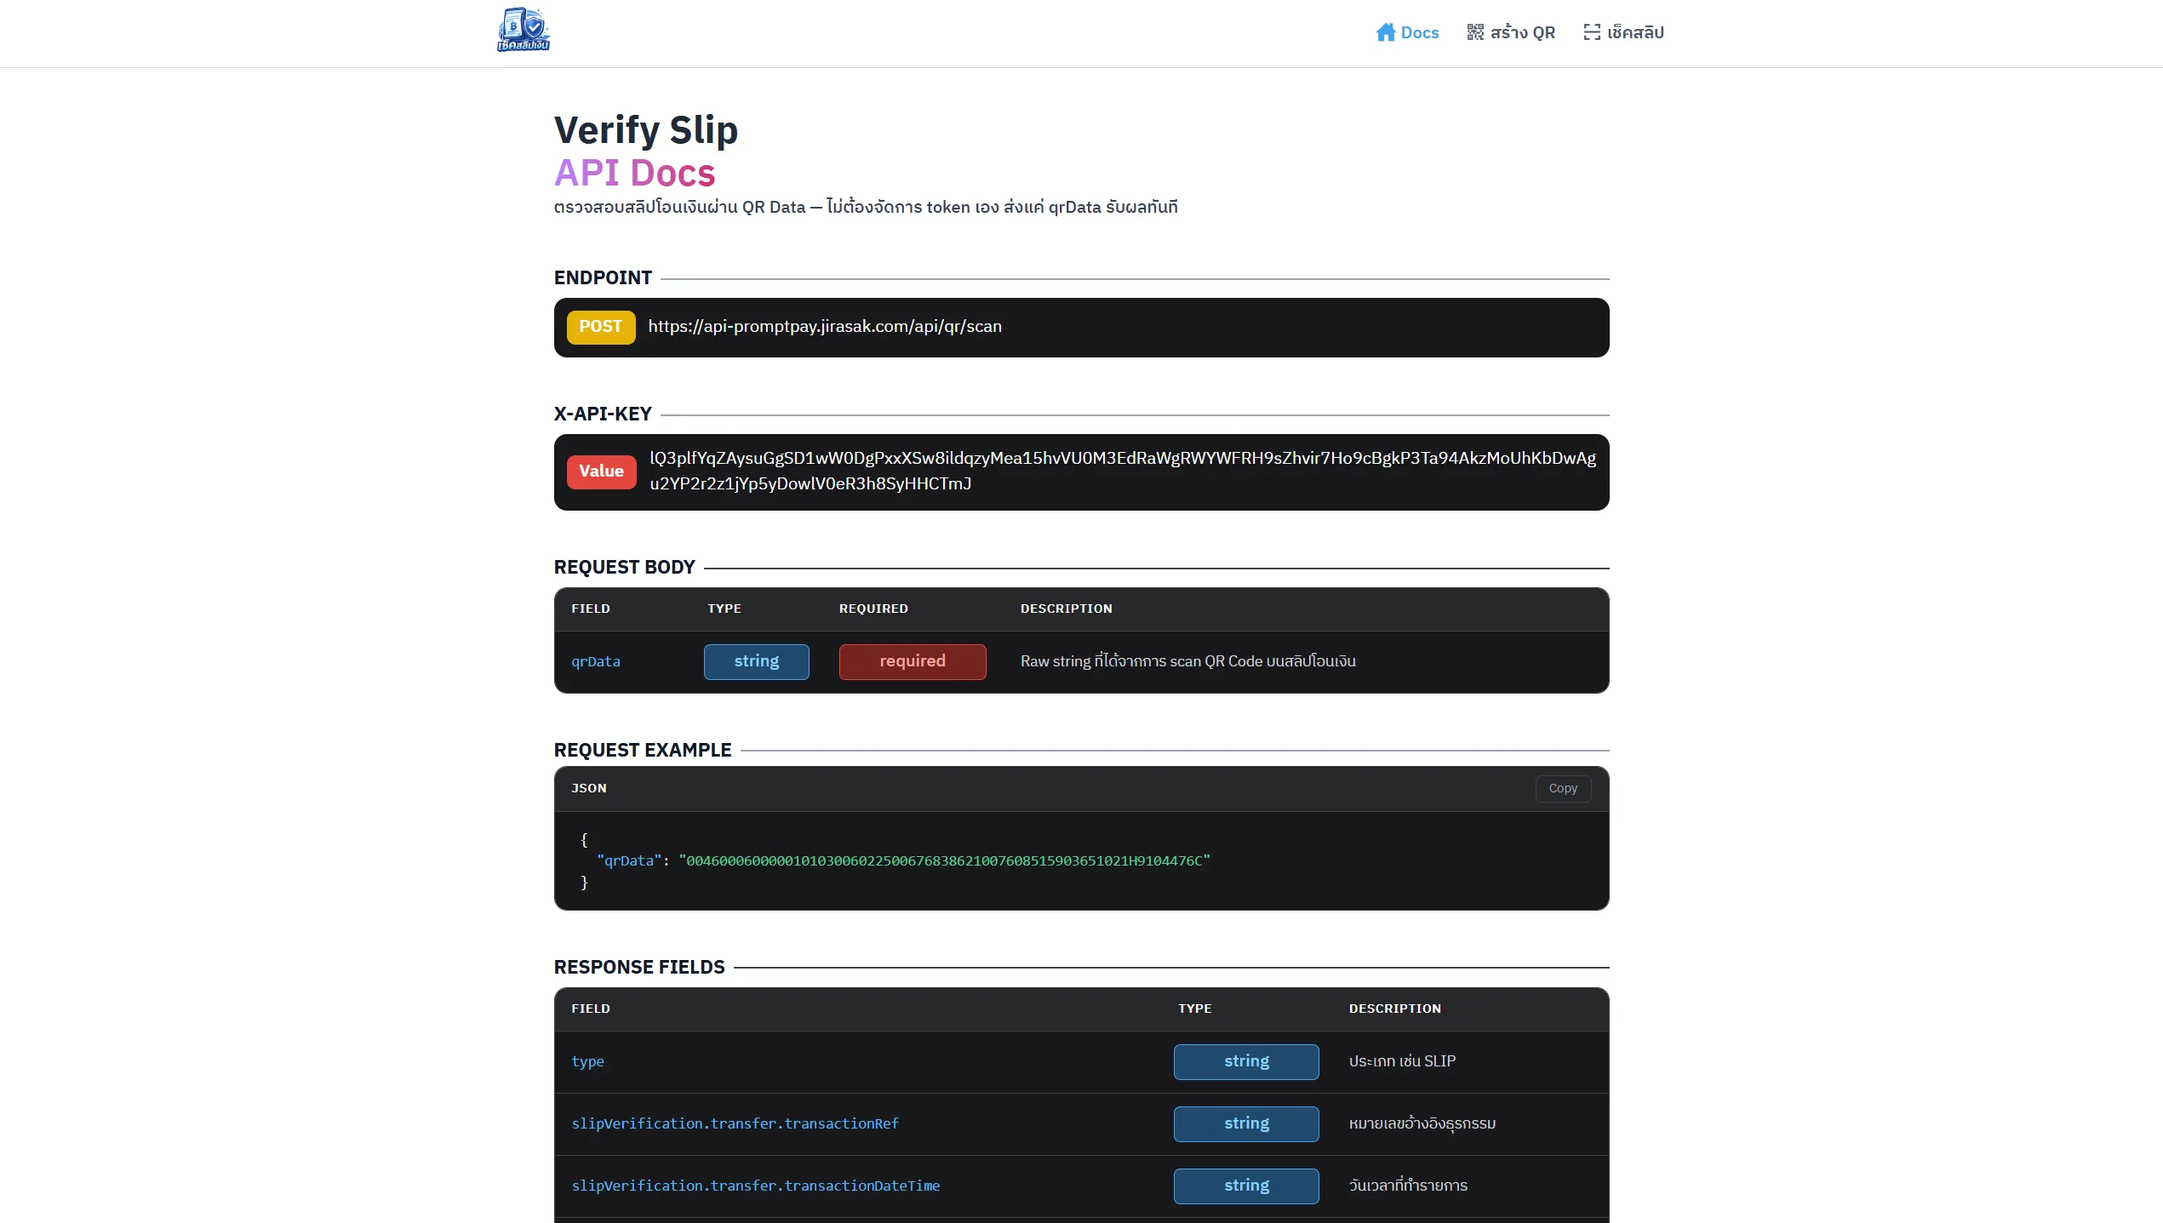
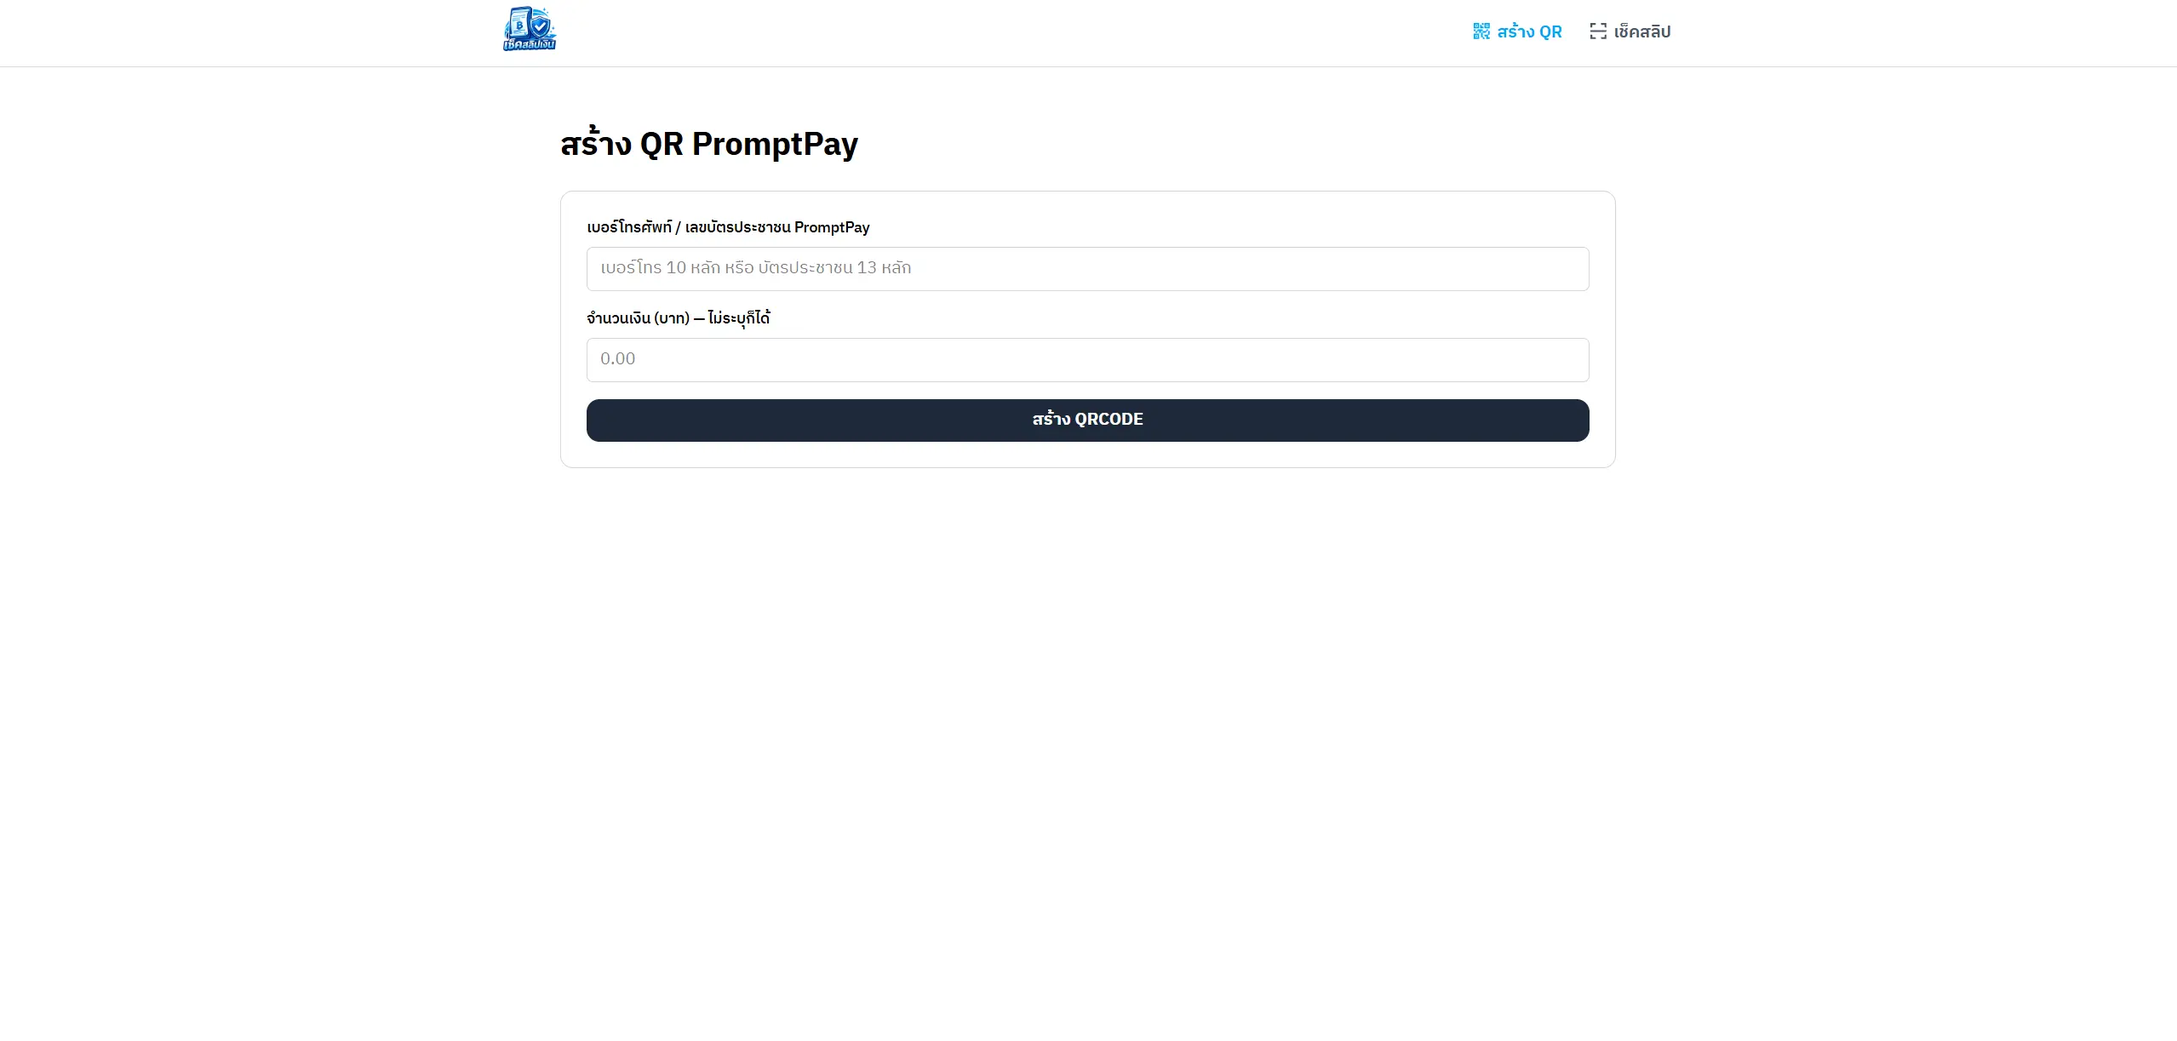
update myproject

diff --git a/src/components/Myproject.tsx b/src/components/Myproject.tsx
@@ -14,7 +14,7 @@ const Myproject = () => {
       {/* project */}
       <div className="grid grid-cols-1 gap-8 md:grid-cols-2 lg:grid-cols-3">
         {/* bottle refund member */}
-        <div className="group relative flex flex-col overflow-hidden rounded-2xl border border-neutral-700/50 bg-neutral-900/60 shadow-xl backdrop-blur-xl transition-all duration-500 hover:-translate-y-3 hover:border-blue-500/50">
+        <div className="group relative flex h-full flex-col overflow-hidden rounded-2xl border border-neutral-700/50 bg-neutral-900/60 shadow-xl backdrop-blur-xl transition-all duration-500 hover:-translate-y-3 hover:border-blue-500/50">
           {/* mac os top bar */}
           <div className="flex flex-col border-b border-neutral-800 bg-[#1e1e1e]">
             <div className="bg-neutral-800/8- flex items-center px-4 py-5 backdrop-blur-md">
@@ -27,7 +27,7 @@ const Myproject = () => {
 
               {/* url */}
               <div className="mx-auto flex h-6 items-center justify-center rounded-md bg-black/30 px-2 text-[10px] tracking-wider text-neutral-400 shadow-inner sm:w-1/2">
-               https://member.bottlerefund.net
+                https://member.bottlerefund.net
               </div>
 
               <div className="sm:w-[42px]"></div>
@@ -48,6 +48,14 @@ const Myproject = () => {
             <h3 className="text-xl font-bold text-white transition-colors duration-300 group-hover:text-blue-400">
               BottleRefund Member
             </h3>
+
+            <p className="mt-3 text-sm leading-6 text-neutral-400">
+              แพลตฟอร์มจัดการการคืนขวดและขยะรีไซเคิล พัฒนาในส่วน Frontend เเละ
+              BackEnd สำหรับเช็คข้อมูลสมาชิก คะแนนสะสม และข้อมูลการรีไซเคิล
+              เเละระบบจัดการหลังบ้าน โดยเน้น UI/UX ที่ใช้งานง่าย รองรับ
+              Responsive Design
+            </p>
+
             {/* tech stack icon */}
             <div className="mt-4 mb-4 flex flex-wrap items-center gap-3">
               <div className="group/tooltip relative flex items-center justify-center rounded-full border border-neutral-700/50 bg-neutral-800 p-2 transition-all hover:border-neutral-500 hover:bg-neutral-700">
@@ -153,7 +161,7 @@ const Myproject = () => {
             </div>
 
             {/* button */}
-            <div className="grid grid-cols-2 gap-3 border-t border-neutral-800/50 pt-5">
+            <div className="mt-auto grid grid-cols-2 gap-3 border-t border-neutral-800/50 pt-5">
               <a href="https://member.bottlerefund.net" target="_blank">
                 <button className="group/website relative w-full overflow-hidden rounded-lg bg-[#0c78e5] p-2 text-lg font-semibold text-white transition-all duration-300 hover:rounded-none">
                   <span className="absolute inset-0 origin-bottom scale-y-0 bg-white transition-transform duration-300 ease-out group-hover/website:scale-y-100" />
@@ -179,7 +187,7 @@ const Myproject = () => {
         </div>
 
         {/* bottle landing page */}
-        <div className="group relative flex flex-col overflow-hidden rounded-2xl border border-neutral-700/50 bg-neutral-900/60 shadow-xl backdrop-blur-xl transition-all duration-500 hover:-translate-y-3 hover:border-blue-500/50">
+        <div className="group relative flex h-full flex-col overflow-hidden rounded-2xl border border-neutral-700/50 bg-neutral-900/60 shadow-xl backdrop-blur-xl transition-all duration-500 hover:-translate-y-3 hover:border-blue-500/50">
           {/* mac os top bar */}
           <div className="flex flex-col border-b border-neutral-800 bg-[#1e1e1e]">
             <div className="bg-neutral-800/8- flex items-center px-4 py-5 backdrop-blur-md">
@@ -213,6 +221,14 @@ const Myproject = () => {
             <h3 className="text-xl font-bold text-white transition-colors duration-300 group-hover:text-blue-400">
               BottleRefund Landing Page
             </h3>
+
+            <p className="mt-3 text-sm leading-6 text-neutral-400">
+              แพลตฟอร์มจัดการการคืนขวดและขยะรีไซเคิล พัฒนาในส่วน Frontend
+              พร้อมเชื่อมต่อ REST API สำหรับเช็คข้อมูลสมาชิก คะแนนสะสม
+              และข้อมูลการรีไซเคิล โดยเน้น UI/UX ที่ใช้งานง่าย รองรับ Responsive
+              Design และการจัดการข้อมูลจาก API
+            </p>
+
             {/* tech stack icon */}
             <div className="mt-4 mb-4 flex flex-wrap items-center gap-3">
               <div className="group/tooltip relative flex items-center justify-center rounded-full border border-neutral-700/50 bg-neutral-800 p-2 transition-all hover:border-neutral-500 hover:bg-neutral-700">
@@ -270,7 +286,7 @@ const Myproject = () => {
             </div>
 
             {/* button */}
-            <div className="grid grid-cols-2 gap-3 border-t border-neutral-800/50 pt-5">
+            <div className="mt-auto grid grid-cols-2 gap-3 border-t border-neutral-800/50 pt-5">
               <a href="https://www.bottlerefund.net" target="_blank">
                 <button className="group/website relative w-full overflow-hidden rounded-lg bg-[#0c78e5] p-2 text-lg font-semibold text-white transition-all duration-300 hover:rounded-none">
                   <span className="absolute inset-0 origin-bottom scale-y-0 bg-white transition-transform duration-300 ease-out group-hover/website:scale-y-100" />
@@ -296,7 +312,7 @@ const Myproject = () => {
         </div>
 
         {/* tharasiri */}
-        <div className="group relative flex flex-col overflow-hidden rounded-2xl border border-neutral-700/50 bg-neutral-900/60 shadow-xl backdrop-blur-xl transition-all duration-500 hover:-translate-y-3 hover:border-blue-500/50">
+        <div className="group relative flex h-full flex-col overflow-hidden rounded-2xl border border-neutral-700/50 bg-neutral-900/60 shadow-xl backdrop-blur-xl transition-all duration-500 hover:-translate-y-3 hover:border-blue-500/50">
           {/* mac os top bar */}
           <div className="flex flex-col border-b border-neutral-800 bg-[#1e1e1e]">
             <div className="bg-neutral-800/8- flex items-center px-4 py-5 backdrop-blur-md">
@@ -330,6 +346,13 @@ const Myproject = () => {
             <h3 className="text-xl font-bold text-white transition-colors duration-300 group-hover:text-blue-400">
               Tharasiri UI Clone
             </h3>
+
+            <p className="mt-3 text-sm leading-6 text-neutral-400">
+              เว็บไซต์นำเสนอข้อมูลโครงการบ้านธาราศิริ พัฒนาในส่วน Frontend
+              โดยเน้นการออกแบบ UI/UX ที่ทันสมัย สะอาดตา และใช้งานง่าย
+              พร้อมรองรับการแสดงผลแบบ Responsive บน Desktop และ Mobile
+            </p>
+
             {/* tech stack icon */}
             <div className="mt-4 mb-4 flex flex-wrap items-center gap-3">
               <div className="group/tooltip relative flex items-center justify-center rounded-full border border-neutral-700/50 bg-neutral-800 p-2 transition-all hover:border-neutral-500 hover:bg-neutral-700">
@@ -395,7 +418,7 @@ const Myproject = () => {
             </div>
 
             {/* button */}
-            <div className="grid grid-cols-2 gap-3 border-t border-neutral-800/50 pt-5">
+            <div className="mt-auto grid grid-cols-2 gap-3 border-t border-neutral-800/50 pt-5">
               <a href="https://tharasiri.jirasak.com" target="_blank">
                 <button className="group/website relative w-full overflow-hidden rounded-lg bg-[#0c78e5] p-2 text-lg font-semibold text-white transition-all duration-300 hover:rounded-none">
                   <span className="absolute inset-0 origin-bottom scale-y-0 bg-white transition-transform duration-300 ease-out group-hover/website:scale-y-100" />
@@ -421,7 +444,7 @@ const Myproject = () => {
           </div>
         </div>
 
-        <div className="group relative flex flex-col overflow-hidden rounded-2xl border border-neutral-700/50 bg-neutral-900/60 shadow-xl backdrop-blur-xl transition-all duration-500 hover:-translate-y-3 hover:border-blue-500/50">
+        <div className="group relative flex h-full flex-col overflow-hidden rounded-2xl border border-neutral-700/50 bg-neutral-900/60 shadow-xl backdrop-blur-xl transition-all duration-500 hover:-translate-y-3 hover:border-blue-500/50">
           {/* mac os top bar */}
           <div className="flex flex-col border-b border-neutral-800 bg-[#1e1e1e]">
             <div className="bg-neutral-800/8- flex items-center px-4 py-5 backdrop-blur-md">
@@ -455,6 +478,13 @@ const Myproject = () => {
             <h3 className="text-xl font-bold text-white transition-colors duration-300 group-hover:text-blue-400">
               Ticketier UI Clone
             </h3>
+
+            <p className="mt-3 text-sm leading-6 text-neutral-400">
+              เว็บไซต์สำหรับนำเสนอข้อมูลบัตรคอนเสิร์ต มิวสิคเฟส และแฟนมีต
+              พัฒนาในส่วน Frontend โดยเน้น UI/UX ที่ทันสมัย ใช้งานง่าย และรองรับ
+              Responsive Design บน Desktop และ Mobile
+            </p>
+
             {/* tech stack icon */}
             <div className="mt-4 mb-4 flex flex-wrap items-center gap-3">
               <div className="group/tooltip relative flex items-center justify-center rounded-full border border-neutral-700/50 bg-neutral-800 p-2 transition-all hover:border-neutral-500 hover:bg-neutral-700">
@@ -513,7 +543,7 @@ const Myproject = () => {
             </div>
 
             {/* button */}
-            <div className="grid grid-cols-2 gap-3 border-t border-neutral-800/50 pt-5">
+            <div className="mt-auto grid grid-cols-2 gap-3 border-t border-neutral-800/50 pt-5">
               <a href="https://ticketier.jirasak.com" target="_blank">
                 <button className="group/website relative w-full overflow-hidden rounded-lg bg-[#0c78e5] p-2 text-lg font-semibold text-white transition-all duration-300 hover:rounded-none">
                   <span className="absolute inset-0 origin-bottom scale-y-0 bg-white transition-transform duration-300 ease-out group-hover/website:scale-y-100" />
@@ -539,7 +569,7 @@ const Myproject = () => {
           </div>
         </div>
 
-        <div className="group relative flex flex-col overflow-hidden rounded-2xl border border-neutral-700/50 bg-neutral-900/60 shadow-xl backdrop-blur-xl transition-all duration-500 hover:-translate-y-3 hover:border-blue-500/50">
+        <div className="group relative flex h-full flex-col overflow-hidden rounded-2xl border border-neutral-700/50 bg-neutral-900/60 shadow-xl backdrop-blur-xl transition-all duration-500 hover:-translate-y-3 hover:border-blue-500/50">
           {/* mac os top bar */}
           <div className="flex flex-col border-b border-neutral-800 bg-[#1e1e1e]">
             <div className="bg-neutral-800/8- flex items-center px-4 py-5 backdrop-blur-md">
@@ -574,6 +604,14 @@ const Myproject = () => {
             <h3 className="text-xl font-bold text-white transition-colors duration-300 group-hover:text-blue-400">
               PromptPay Slip Verification
             </h3>
+
+            <p className="mt-3 text-sm leading-6 text-neutral-400">
+              เว็บไซต์สำหรับสร้าง QR PromptPay และตรวจสอบสลิปการโอนเงิน
+              พัฒนาระบบ Frontend พร้อมเชื่อมต่อ API
+              สำหรับตรวจสอบข้อมูลการชำระเงิน โดยเน้น UI/UX
+              ที่ใช้งานง่ายและรองรับ Responsive Design
+            </p>
+
             {/* tech stack icon */}
             <div className="mt-4 mb-4 flex flex-wrap items-center gap-3">
               <div className="group/tooltip relative flex items-center justify-center rounded-full border border-neutral-700/50 bg-neutral-800 p-2 transition-all hover:border-neutral-500 hover:bg-neutral-700">
@@ -637,33 +675,16 @@ const Myproject = () => {
                 </span>
               </div>
               <div className="group/tooltip relative flex items-center justify-center rounded-full border border-neutral-700/50 bg-neutral-800 p-2 transition-all hover:border-neutral-500 hover:bg-neutral-700">
-                <svg
-                  xmlns="http://www.w3.org/2000/svg"
-                  viewBox="0 0 32 32"
-                  width="20"
-                  height="20"
-                >
-                  <path
-                    fill="#fff"
-                    d="M32 24.795c-1.164.296-1.884.013-2.53-.957l-4.594-6.356-.664-.88-5.365 7.257c-.613.873-1.256 1.253-2.4.944l6.87-9.222-6.396-8.33c1.1-.214 1.86-.105 2.535.88l4.765 6.435 4.8-6.4c.615-.873 1.276-1.205 2.38-.883l-2.48 3.288-3.36 4.375c-.4.5-.345.842.023 1.325L32 24.795zM.008 15.427l.562-2.764C2.1 7.193 8.37 4.92 12.694 8.3c2.527 1.988 3.155 4.8 3.03 7.95H1.48c-.214 5.67 3.867 9.092 9.07 7.346 1.825-.613 2.9-2.042 3.438-3.83.273-.896.725-1.036 1.567-.78-.43 2.236-1.4 4.104-3.45 5.273-3.063 1.75-7.435 1.184-9.735-1.248C1 21.6.434 19.812.18 17.9c-.04-.316-.12-.617-.18-.92q.008-.776.008-1.552zm1.498-.38h12.872c-.084-4.1-2.637-7.012-6.126-7.037-3.83-.03-6.58 2.813-6.746 7.037z"
-                  />
-                </svg>
-                <span className="pointer-events-none absolute -top-10 rounded-md border border-neutral-700 bg-neutral-800 px-2 py-1 text-xs font-medium whitespace-nowrap text-white opacity-0 shadow-xl transition-all duration-200 group-hover/tooltip:opacity-100">
-                  Express.js
-                  <div className="absolute -bottom-1 left-1/2 h-2 w-2 -translate-x-1/2 rotate-45 border-r border-b border-neutral-700 bg-neutral-800"></div>
-                </span>
-              </div>
-              <div className="group/tooltip relative flex items-center justify-center rounded-full border border-neutral-700/50 bg-neutral-800 p-2 transition-all hover:border-neutral-500 hover:bg-neutral-700">
                 <TbApi className="h-5 w-5 text-white" />
                 <span className="pointer-events-none absolute -top-10 rounded-md border border-neutral-700 bg-neutral-800 px-2 py-1 text-xs font-medium whitespace-nowrap text-white opacity-0 shadow-xl transition-all duration-200 group-hover/tooltip:opacity-100">
-                  API Express.js
+                  API
                   <div className="absolute -bottom-1 left-1/2 h-2 w-2 -translate-x-1/2 rotate-45 border-r border-b border-neutral-700 bg-neutral-800"></div>
                 </span>
               </div>
             </div>
 
             {/* button */}
-            <div className="grid grid-cols-2 gap-3 border-t border-neutral-800/50 pt-5">
+            <div className="mt-auto grid grid-cols-2 gap-3 border-t border-neutral-800/50 pt-5">
               <a href="https://promptpay.jirasak.com/" target="_blank">
                 <button className="group/website relative w-full overflow-hidden rounded-lg bg-[#0c78e5] p-2 text-lg font-semibold text-white transition-all duration-300 hover:rounded-none">
                   <span className="absolute inset-0 origin-bottom scale-y-0 bg-white transition-transform duration-300 ease-out group-hover/website:scale-y-100" />

diff --git a/src/components/activitys/AIKnowledgeSkillsModal.tsx b/src/components/activitys/AIKnowledgeSkillsModal.tsx
@@ -1,8 +1,8 @@
 import { useEffect } from "react";
-import { CiLocationOn } from "react-icons/ci";
 import { FaUserAlt } from "react-icons/fa";
+import { FaLocationDot } from "react-icons/fa6";
 import { IoClose } from "react-icons/io5";
-import { MdOutlineDateRange } from "react-icons/md";
+import { MdDateRange } from "react-icons/md";
 
 interface Props {
   isOpen: boolean;
@@ -99,7 +99,7 @@ const AIKnowledgeSkillsModal = ({ isOpen, onClose }: Props) => {
             <div className="flex flex-col space-y-4">
               <div>
                 <div className="flex items-start">
-                  <MdOutlineDateRange className="mt-0.5 mr-3 text-2xl text-[#0c78e5]" />
+                  <MdDateRange  className="mt-0.5 mr-3 text-2xl text-[#0c78e5]" />
                   <div className="flex flex-col gap-1">
                     <span className="text-md font-semibold text-[#0c78e5]">
                       วัน/เดือน/ปี :
@@ -114,7 +114,7 @@ const AIKnowledgeSkillsModal = ({ isOpen, onClose }: Props) => {
 
               <div>
                 <div className="flex items-start">
-                  <CiLocationOn className="mt-0.5 mr-3 text-2xl text-[#0c78e5]" />
+                  <FaLocationDot  className="mt-0.5 mr-3 text-2xl text-[#0c78e5]" />
                   <div className="flex flex-col gap-1">
                     <span className="text-md font-semibold text-[#0c78e5]">
                       สถานที่ :

diff --git a/src/components/activitys/IotModal.tsx b/src/components/activitys/IotModal.tsx
@@ -1,8 +1,8 @@
 import { useEffect } from "react";
-import { CiLocationOn } from "react-icons/ci";
 import { FaUserAlt } from "react-icons/fa";
+import { FaLocationDot } from "react-icons/fa6";
 import { IoClose } from "react-icons/io5";
-import { MdOutlineDateRange } from "react-icons/md";
+import { MdDateRange } from "react-icons/md";
 
 interface Props {
   isOpen: boolean;
@@ -116,7 +116,7 @@ const IotModal = ({ isOpen, onClose }: Props) => {
             <div className="flex flex-col space-y-4">
               <div>
                 <div className="flex items-start">
-                  <MdOutlineDateRange className="mt-0.5 mr-3 text-2xl text-[#0c78e5]" />
+                  <MdDateRange className="mt-0.5 mr-3 text-2xl text-[#0c78e5]" />
                   <div className="flex flex-col gap-1">
                     <span className="text-md font-semibold text-[#0c78e5]">
                       วัน/เดือน/ปี :
@@ -131,7 +131,7 @@ const IotModal = ({ isOpen, onClose }: Props) => {
 
               <div>
                 <div className="flex items-start">
-                  <CiLocationOn className="mt-0.5 mr-3 text-2xl text-[#0c78e5]" />
+                  <FaLocationDot className="mt-0.5 mr-3 text-2xl text-[#0c78e5]" />
                   <div className="flex flex-col gap-1">
                     <span className="text-md font-semibold text-[#0c78e5]">
                       สถานที่ :
